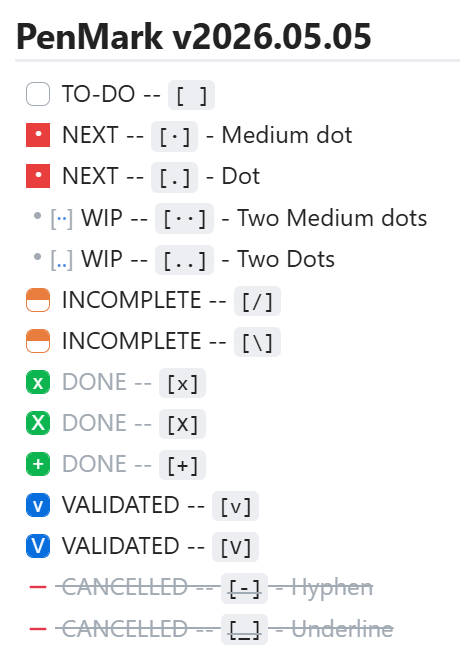
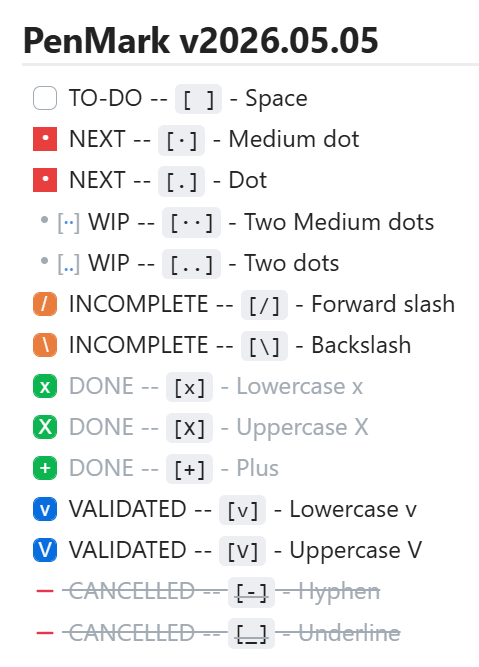
feat: update README and theme styles for PenMark support

diff --git a/theme.css b/theme.css
@@ -2096,14 +2096,16 @@ li[data-task="/"] > input:checked:after,
 li[data-task="/"] > p > input:checked:after {
   top: 0;
   left: 0;
-  content: " ";
+  content: "/";
   display: block;
   position: absolute;
   border-color: var(--orange);
   background-color: var(--orange);
   width: calc(100%);
-  height: 50%;
+  height: 100%;
   -webkit-mask-image: none;
+  padding-left: 5px;  
+  color: white;
 }
 
 /* [\] WIP */
@@ -2121,14 +2123,16 @@ li[data-task="\\"] > input:checked:after,
 li[data-task="\\"] > p > input:checked:after {
   top: 0;
   left: 0;
-  content: " ";
+  content: "\\";
   display: block;
   position: absolute;
   border-color: var(--orange);
   background-color: var(--orange);
   width: calc(100%);
-  height: 50%;
+  height: 100%;
   -webkit-mask-image: none;
+  padding-left: 6px;
+  color: white;
 }
 
 /* [··] WIP */

diff --git a/README.md b/README.md
@@ -1,26 +1,33 @@
-## PenMark v2026.05.05
-- [ ] TO-DO -- `[ ]`
-- [·] NEXT -- `[·]` - Medium dot
-- [.] NEXT -- `[.]` - Dot
-- [··] WIP -- `[··]` - Two Medium dots
-- [..] WIP -- `[..]` - Two Dots
-- [/] INCOMPLETE -- `[/]`
-- [\] INCOMPLETE -- `[\]`
-- [x] DONE -- `[x]`
-- [X] DONE -- `[X]`
-- [+] DONE -- `[+]`
-- [v] VALIDATED -- `[v]`
-- [V] VALIDATED -- `[V]`      
-- [-] CANCELLED -- `[-]` - Hyphen
-- [_] CANCELLED -- `[_]` - Underline
+## Added support for PenMark v2026.05.05
 
-### Dark
+Modified version to support PenMark.
+
+## Dark Mode
 
 ![](assets/penmark--dark.png)
 
-### Light
+## Light Mode
 
 ![](assets/penmark--light.png)
+
+## PenMark
+
+- [ ] TO-DO -- `[ ]` - Space
+- [·] NEXT -- `[·]` - Medium dot
+- [.] NEXT -- `[.]` - Dot
+- [··] WIP -- `[··]` - Two Medium dots
+- [..] WIP -- `[..]` - Two dots
+- [/] INCOMPLETE -- `[/]` - Forward slash
+- [\] INCOMPLETE -- `[\]` - Backslash
+- [x] DONE -- `[x]` - Lowercase x
+- [X] DONE -- `[X]` - Uppercase X
+- [+] DONE -- `[+]` - Plus
+- [v] VALIDATED -- `[v]` - Lowercase v
+- [V] VALIDATED -- `[V]` - Uppercase V
+- [-] CANCELLED -- `[-]` - Hyphen
+- [_] CANCELLED -- `[_]` - Underline
+
+
 
 ### Notes on V1 of this theme
 